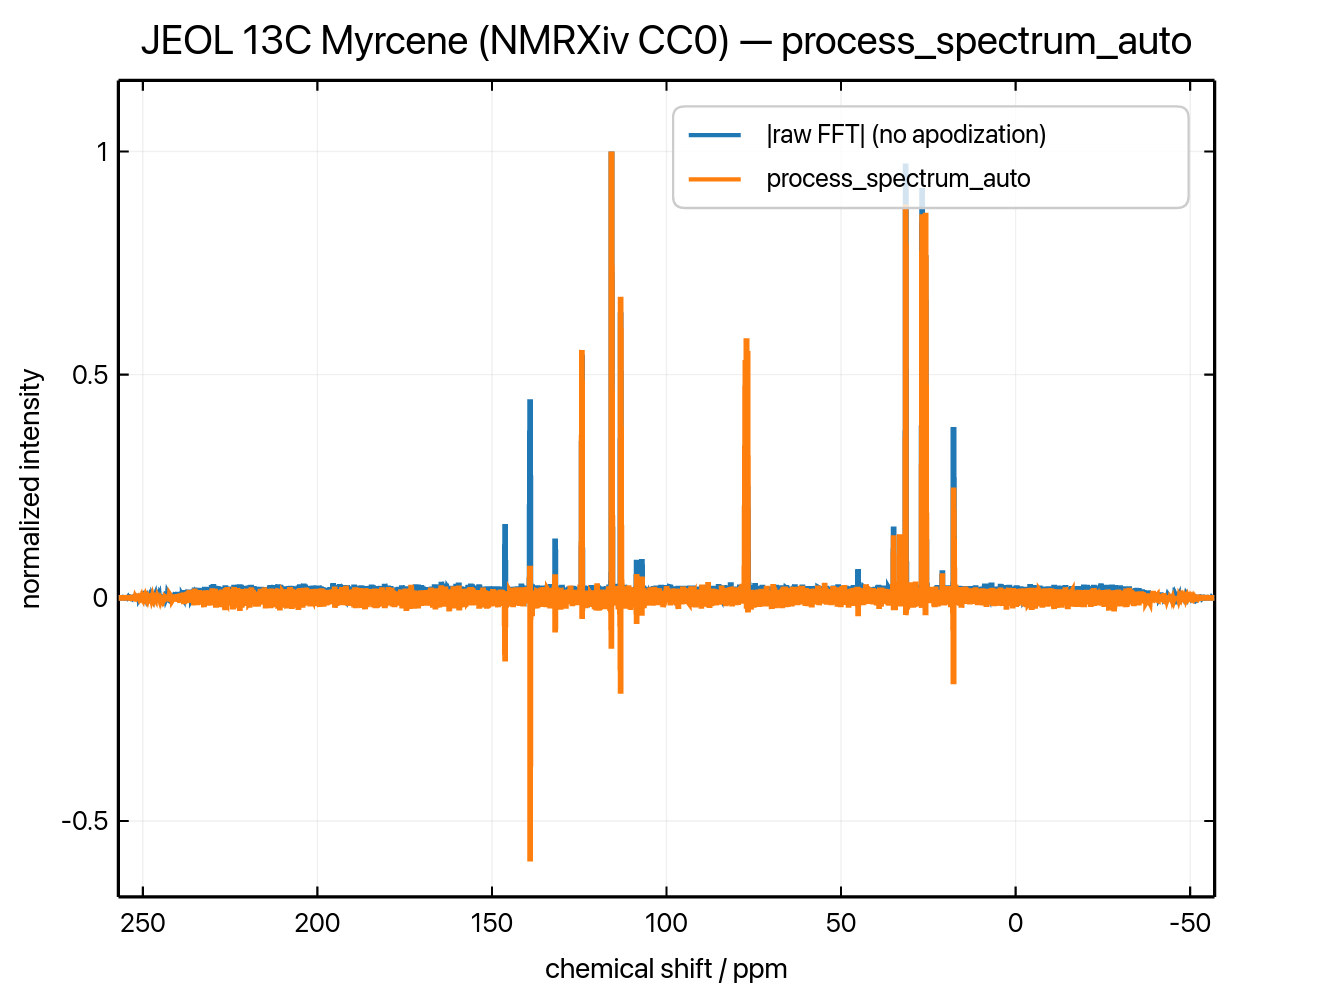
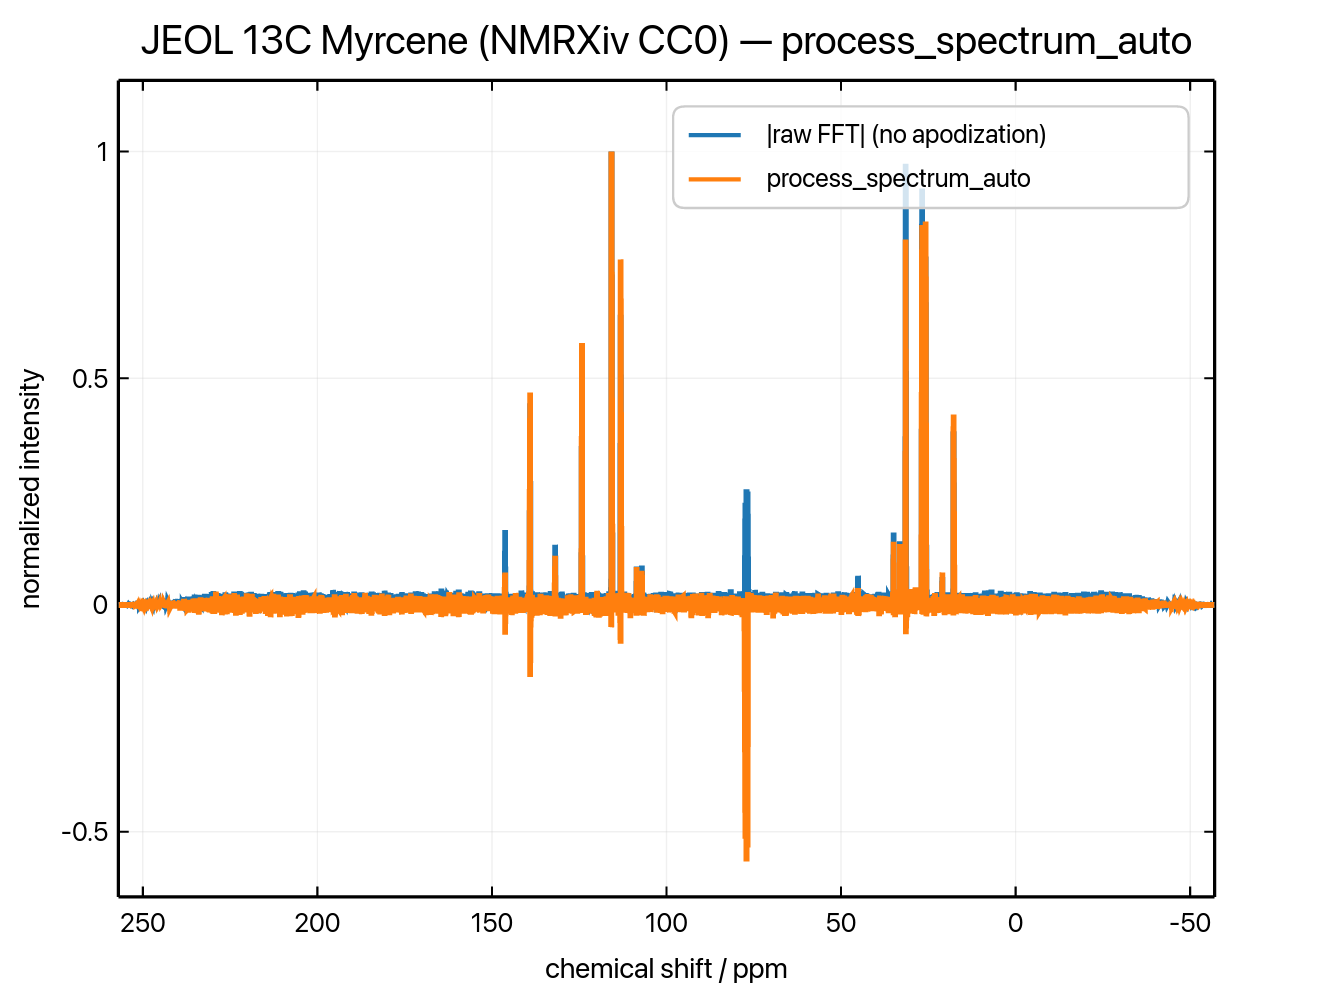
feat(processing): default auto-phase strategy to GlobalCost
`process_spectrum_auto` now defaults to the GlobalCost (ACME entropy)
auto-phase strategy instead of Regions. The new
`auto_phase_options` field on `AutoProcessingOptions` lets callers
override the strategy and any other tuning back to Regions or
peak-warmed where preferred.

Why: Regions weighted regression underweights isolated weak peaks
(e.g. CDCl3 solvent triplets) because the regression weight is
proportional to peak amplitude. GlobalCost considers every sample
equally via the entropy of the spectrum's derivative, so weak
outliers contribute proportionally to their lineshape distortion.
On dense, well-resolved spectra Regions is still preferable —
opting back in is one struct field.

diff --git a/crates/rspin-processing/src/auto_processing.rs b/crates/rspin-processing/src/auto_processing.rs
@@ -102,6 +102,13 @@ pub struct AutoProcessingOptions {
     /// ramp and produces visibly wrong dispersive spikes. Fix the
     /// upstream group-delay first.
     pub polynomial_phase_refine: bool,
+    /// Optional override for the auto-phase strategy + tuning. When
+    /// `None`, the orchestrator uses [`AutoPhaseOptions::default`]
+    /// (currently the Regions algorithm of Zorin 2017). Use this to
+    /// force the peak-warmed or ACME-only strategies when Regions
+    /// converges on a local minimum that leaves residual phase on
+    /// outlier peaks.
+    pub auto_phase_options: Option<AutoPhaseOptions>,
     /// When `true`, apply [`subtract_baseline`] with the Whittaker
     /// AsLS-family default after auto-phase.
     pub subtract_baseline: bool,
@@ -123,6 +130,7 @@ impl Default for AutoProcessingOptions {
             zero_fill_multiplier: 2,
             auto_phase: true,
             polynomial_phase_refine: false,
+            auto_phase_options: None,
             subtract_baseline: true,
         }
     }
@@ -298,10 +306,17 @@ pub fn process_spectrum_auto(
     //    residual frequency-dependent phase from a digital-filter
     //    compensator.
     let after_phase = if options.auto_phase {
+        // Default to GlobalCost (ACME entropy) so weak peaks like
+        // solvent triplets contribute equally to the phase fit. The
+        // Regions weighted regression is more robust on dense
+        // multi-region spectra but underweights isolated outliers.
+        let phase_opts = options.auto_phase_options.unwrap_or_else(|| {
+            AutoPhaseOptions::default().with_strategy(crate::AutoPhaseStrategy::GlobalCost)
+        });
         if options.polynomial_phase_refine {
-            auto_phase_correct_polynomial(&after_fft, AutoPhaseOptions::default())?.spectrum
+            auto_phase_correct_polynomial(&after_fft, phase_opts)?.spectrum
         } else {
-            auto_phase_correct(&after_fft, AutoPhaseOptions::default())?.spectrum
+            auto_phase_correct(&after_fft, phase_opts)?.spectrum
         }
     } else {
         after_fft